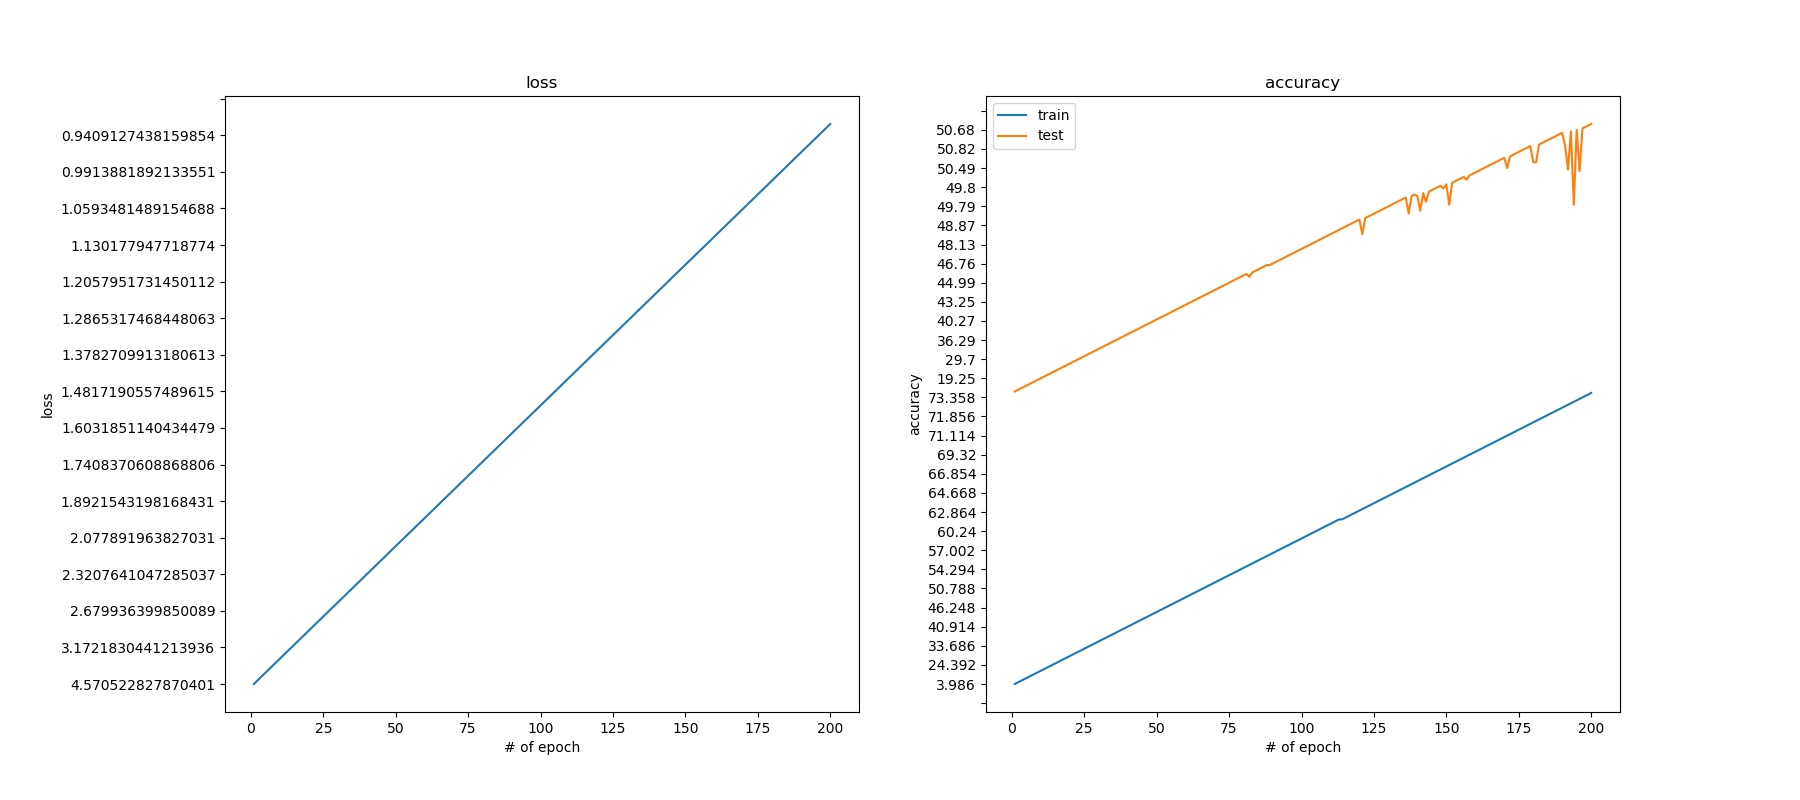
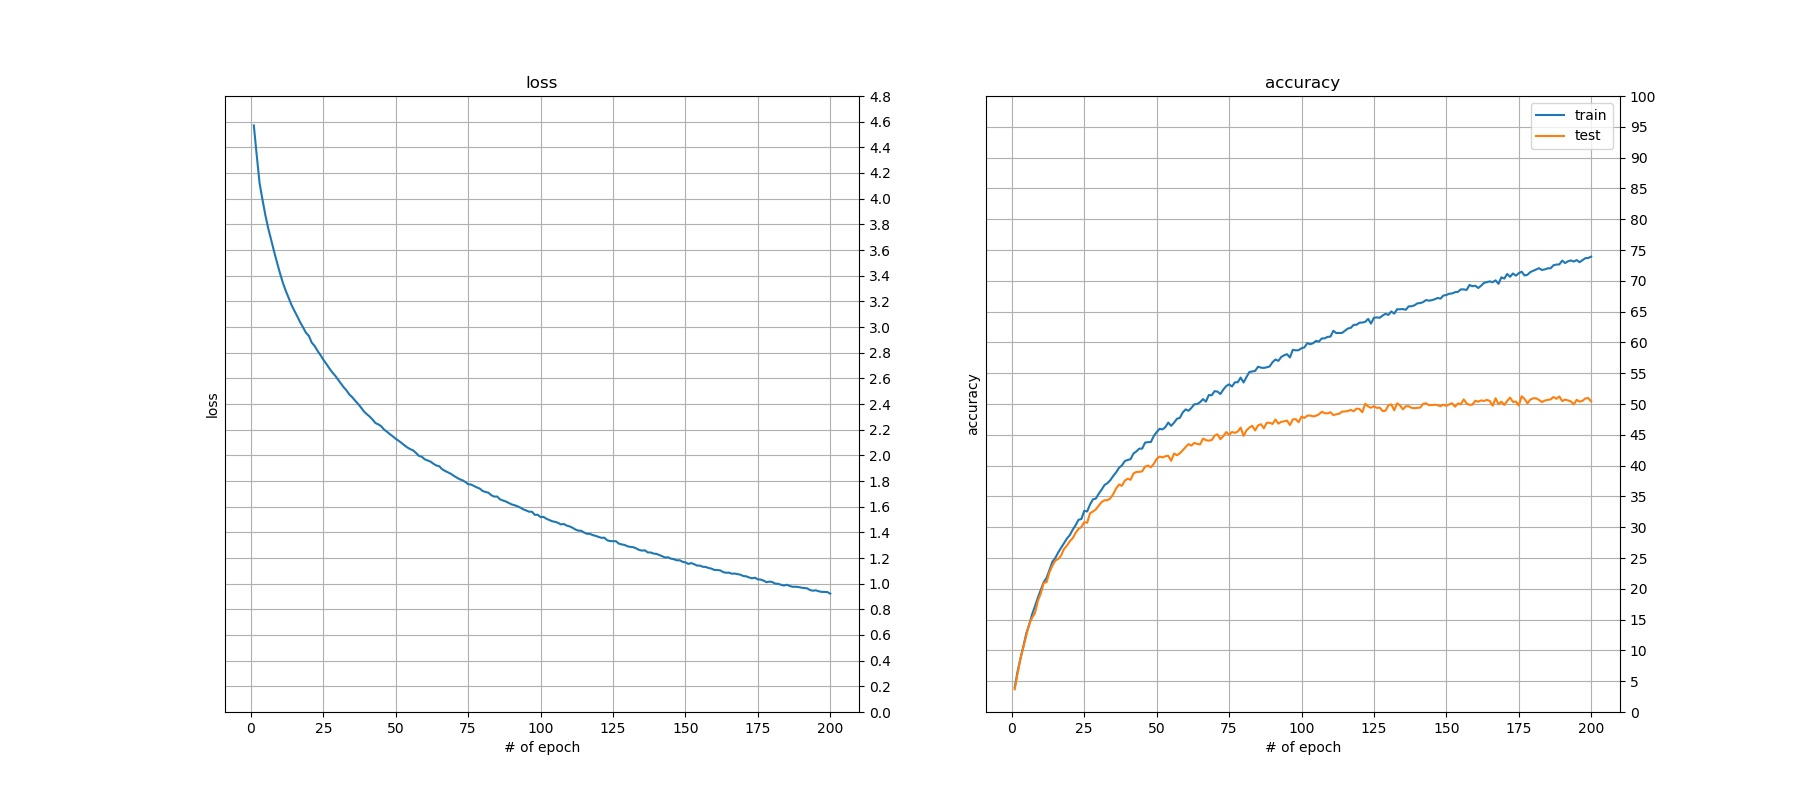
51 accuracy
fix the graph

diff --git a/graph/graph.py b/graph/graph.py
@@ -1,6 +1,6 @@
 # -*- coding: utf-8 -*-
+import numpy as np
 import matplotlib.pyplot as plt
-from matplotlib.pyplot import MultipleLocator
 
 
 def load_data(path="./data.txt"):
@@ -9,31 +9,35 @@ def load_data(path="./data.txt"):
 
 
 data = load_data()
-x = range(1, int(data[0][0]) + 1)
+x = [i for i in range(1, int(data[0][0]) + 1)]
 y1, y2, y3 = [], [], []
 for i in data[1:]:
-    y1.append(i[0])
-    y2.append(i[1])
-    y3.append(i[2])
+    y1.append(float(i[0]))
+    y2.append(float(i[1]))
+    y3.append(float(i[2]))
 
 plt.figure(figsize=(18, 8))
-plt.figure(1)
-y_major_locator = MultipleLocator(len(x)//15)
 
-ax1 = plt.subplot(121)
+ax1 = plt.subplot(1, 2, 1)
+ax1.yaxis.set_ticks_position('right')
+plt.grid()
 plt.plot(x, y1)
 plt.xlabel("# of epoch")
 plt.ylabel("loss")
 plt.title("loss")
-ax1.yaxis.set_major_locator(y_major_locator)
+plt.ylim(0)
+plt.yticks(np.arange(0, 5,0.2 ))
 
-ax2 = plt.subplot(122)
+ax2 = plt.subplot(1, 2, 2)
+ax2.yaxis.set_ticks_position('right')
+plt.grid()
 plt.plot(x, y2, label='train')
 plt.plot(x, y3, label="test")
 plt.xlabel("# of epoch")
 plt.ylabel("accuracy")
 plt.title("accuracy")
-ax2.yaxis.set_major_locator(y_major_locator)
+plt.ylim(0)
+plt.yticks(np.arange(0, 101,5 ))
 
 plt.legend()
 plt.savefig("./analysis.jpg")
